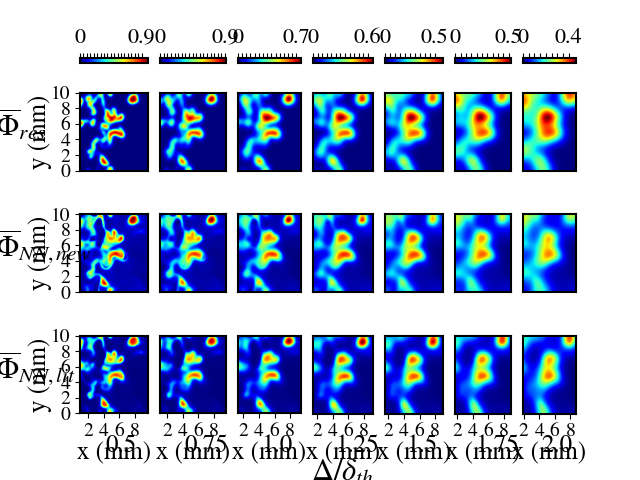
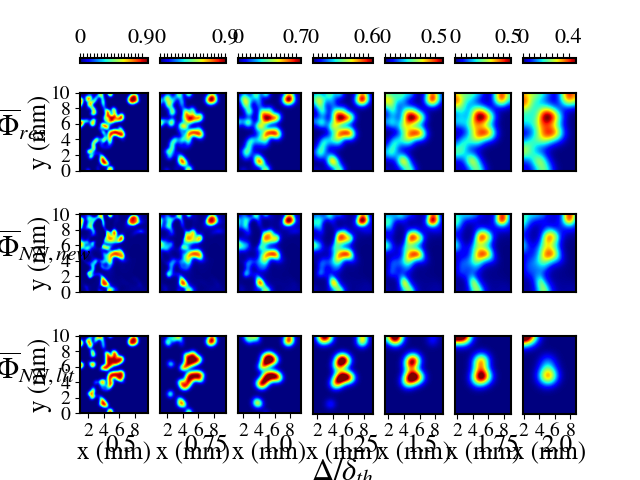
run this mario

Changed region(s): [[0.125, 0.4375, 0.9062, 0.625], [0.125, 0.6875, 0.9062, 0.875]]

diff --git a/comparison.py b/comparison.py
@@ -2,7 +2,7 @@ import numpy as np
 import matplotlib.pyplot as plt
 from sklearn.metrics import mean_squared_error
 from scipy.ndimage import gaussian_filter
-from data_preparation import filename_to_field, calculate_phi_0th_order, sigma_value, exclude_boundaries
+from data_preparation import filename_to_field, calculate_phi_0th_order, sigma_value, exclude_boundaries, filename_to_0th_order_fields
 import scipy as sp
 import torch
 
@@ -27,6 +27,9 @@ grid_size_mm=10
 # Data paths
 data_path_temp = 'nablatemp-slice-B1-0000080000.raw'
 data_path_reaction = 'wtemp-slice-B1-0000080000.raw'
+
+data_path_temp_filtered = "Ref_0th_Fields\\tilde-nablatemp-slice-B1-0000080000-049.raw"
+data_path_reaction_filtered ="Data_new_NN\\dataset_slice_B1_TS80\\bar-wtemp-slice-B1-0000080000-049.raw"
 
 fwidth_n = np.array([25, 37, 49, 62, 74, 86, 99])
 
@@ -75,9 +78,8 @@ def phi_field_NN_new(filter_size):
 
 def phi_field_0th(filter_size):
   exclude_boundaries_L, exclude_boundaries_R = exclude_boundary(filter_size)
-  wcr_field_star, ct_field_star, _ = filename_to_field(data_path_temp, data_path_reaction, (exclude_boundaries_L, exclude_boundaries_R))
-  unfiltered_0th= calculate_phi_0th_order(wcr_field_star, ct_field_star, filter_size)
-  unfiltered_0th = np.flipud(unfiltered_0th)
+  _, _, phi_field_0th = filename_to_0th_order_fields(data_path_temp_filtered, data_path_reaction_filtered, (exclude_boundaries_L, exclude_boundaries_R))
+  unfiltered_0th = np.flipud(phi_field_0th)
   return unfiltered_0th
 
 plt.rcParams['axes.linewidth'] = 1.5
@@ -203,8 +205,8 @@ def plot_comparison_graphs():
     vmax_val=np.array([phi_field_res(filter_sizes[i]), phi_field_NN_new(filter_sizes[i]), phi_field_NN_old(filter_sizes[i])]).max()
     print(phi_field_res(filter_sizes[i]).max(), phi_field_NN_new(filter_sizes[i]).max(), phi_field_NN_old(filter_sizes[i]).max())
     axs[1,i].imshow(phi_field_res(filter_sizes[i]), cmap='jet', extent =[x.min(), x.max(), y.min(), y.max()], vmax=vmax_val)
-    axs[2,i].imshow(np.flipud(phi_field_NN_new(filter_sizes[i])), cmap='jet', extent =[x.min(), x.max(), y.min(), y.max()], vmax=vmax_val)
-    axs[3,i].imshow(np.flipud(phi_field_NN_old(filter_sizes[i])), cmap='jet', extent =[x.min(), x.max(), y.min(), y.max()], vmax=vmax_val)
+    axs[2,i].imshow(np.flipud(phi_field_NN_old(filter_sizes[i])), cmap='jet', extent =[x.min(), x.max(), y.min(), y.max()], vmax=vmax_val)
+    axs[3,i].imshow(np.flipud(phi_field_0th(filter_sizes[i])), cmap='jet', extent =[x.min(), x.max(), y.min(), y.max()], vmax=vmax_val)
 
     #colorbar tings
     tick_pos=np.arange(0, np.floor(phi_field_res(filter_sizes[i]).max()*10)/10+0.05, 0.05)
@@ -353,7 +355,7 @@ def plot_theoretical_change_new_NN(filter_size1, filter_size2):
 #compare_filter_sizes() #plot here
 
 #remember that before applying this, you need to run data_prep
-#plot_comparison_graphs() #plot here
+plot_comparison_graphs() #plot here
 
 #comparison_plot('MSE') #plot here
 #comparison_plot("Pearson")

diff --git a/data_preparation.py b/data_preparation.py
@@ -186,8 +186,7 @@ def filename_to_0th_order_fields(data_path_temp, data_path_reaction, filter_size
     wcr_field, ct_field = calculate_fields(data_temp, data_reaction, B1_TB_case, B1_TU_case)
 
     wcr_field_star, ct_field_star = normalize_fields(wcr_field, ct_field, MAX_WCT_case, MAX_NCT_case)
-    wcr_field_star_filtered = gaussian_filter(wcr_field_star, sigma=sigma_value(filter_size))
-    phi_0th_order_unfiltered = calculate_phi(wcr_field_star_filtered, ct_field_star)
+    phi_0th_order_unfiltered = calculate_phi(wcr_field_star, ct_field_star)
 
     phi_0th_order = gaussian_filter(phi_0th_order_unfiltered, sigma=sigma_value(filter_size))
     return wcr_field_star, ct_field_star, phi_0th_order

diff --git a/multiplot_alt.py b/multiplot_alt.py
@@ -46,7 +46,7 @@ data_path_reaction_filtered ="Data_new_NN\\dataset_slice_B1_TS80\\bar-wtemp-slic
 wcr_field_star, ct_field_star, phi = filename_to_field(data_path_temp, data_path_reaction, exclude_boundary)
 wcr_field_filtered, ct_field_filtered, phi_res_filtered = filename_to_0th_order_fields(data_path_temp_filtered, data_path_reaction_filtered, filter_size)
 #wcr_field_filtered, ct_field_filtered = load_data(data_path_temp_filtered, data_path_reaction_filtered, exclude_boundary)
-phi_res_filtered = gaussian_filter(phi, sigma=sigma_value)
+#phi_res_filtered = gaussian_filter(phi, sigma=sigma_value)
 
 #Create custom color map
 white_jet = create_custom_cmap()
